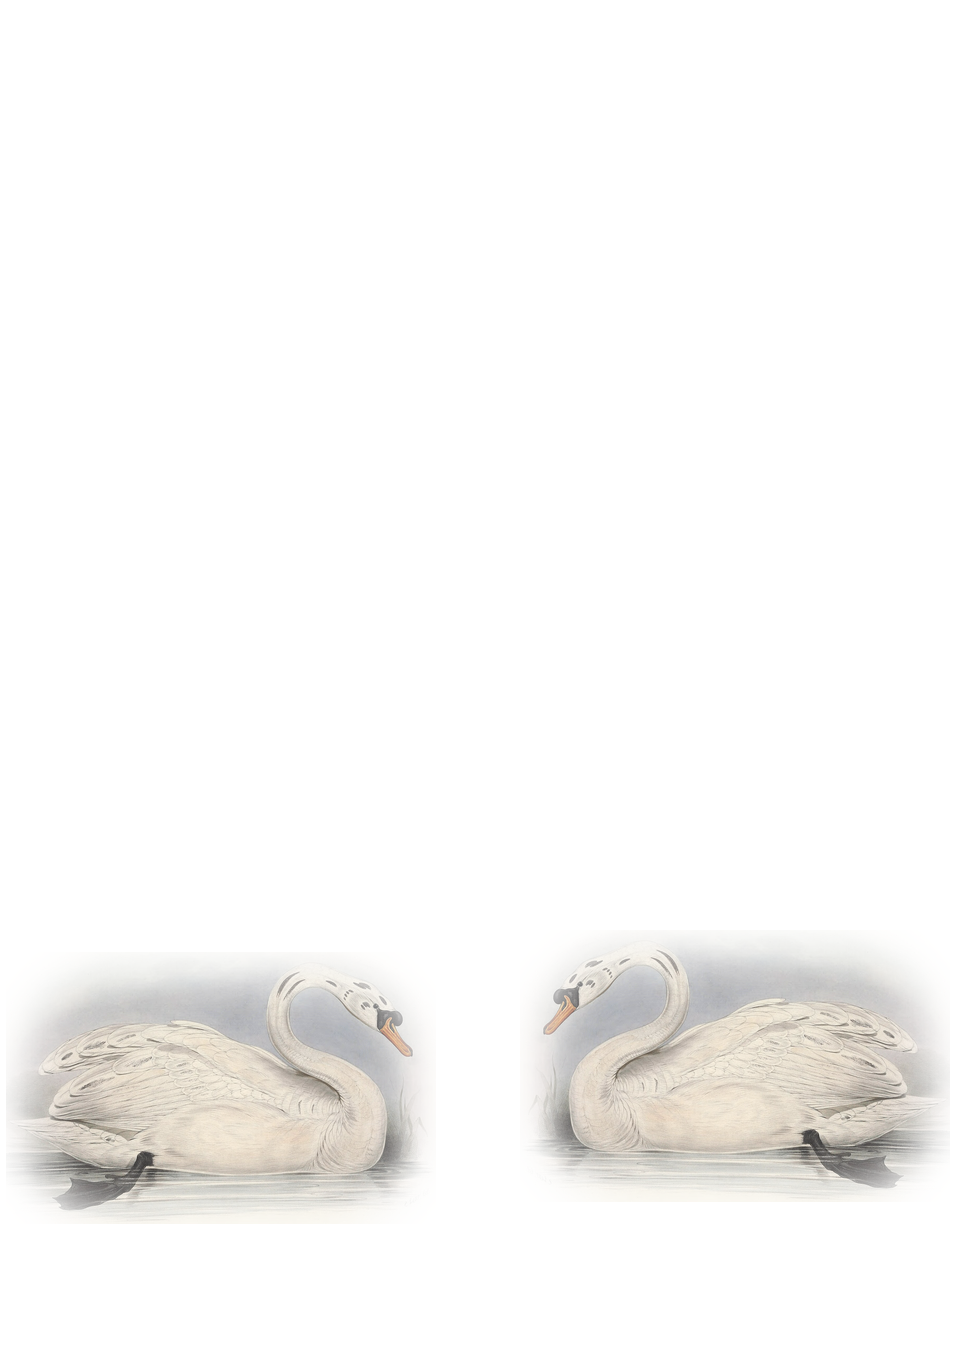
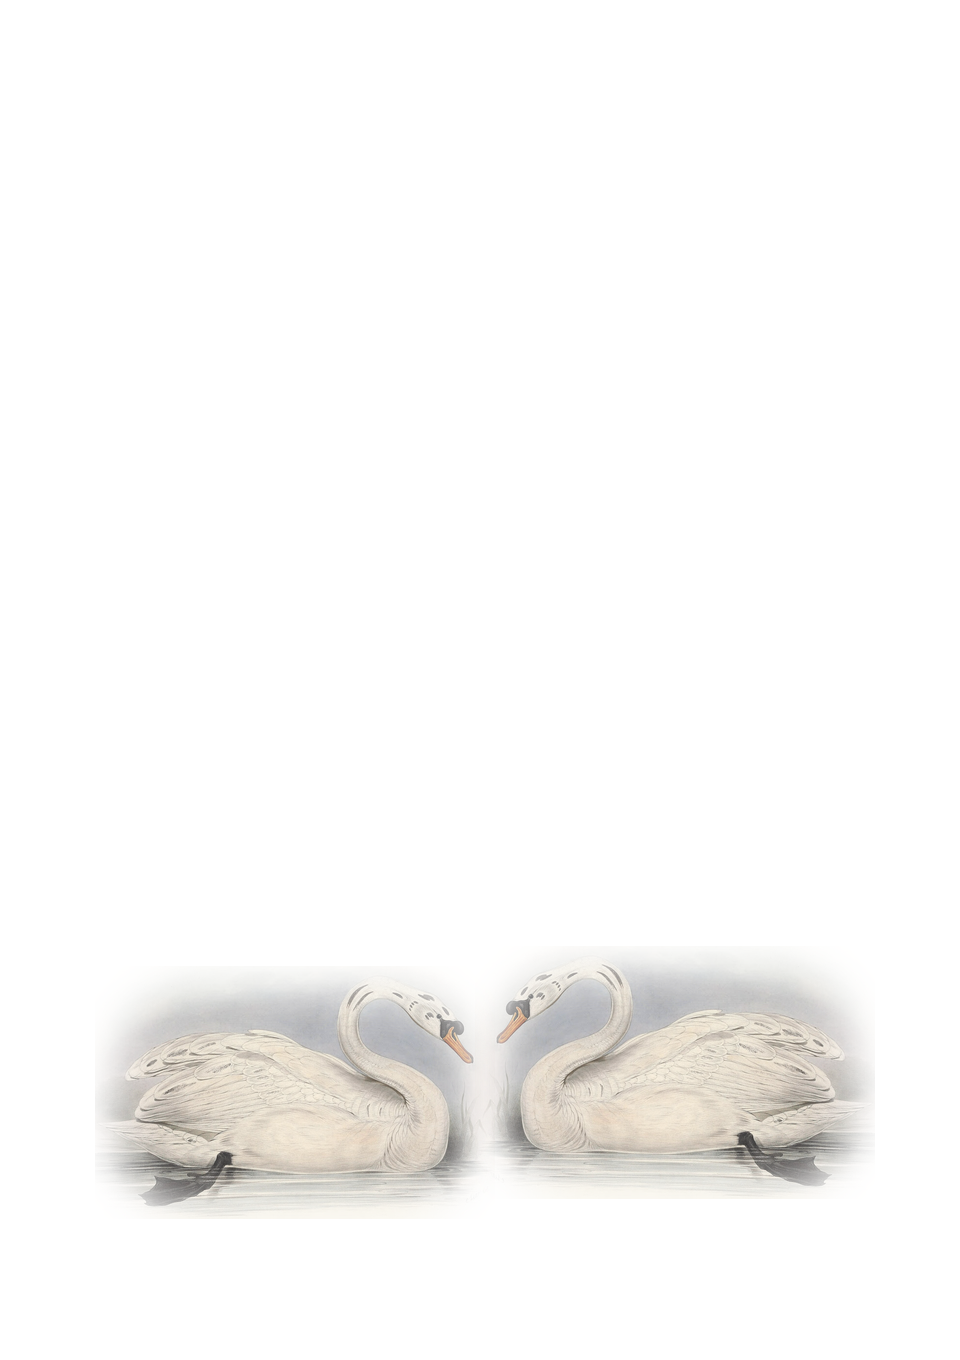
Perbaikan dari uji HP: pohon bersih, angsa ke tengah, teks kartu kontras
- Pita buram di kaki pohon dihapus (crop kanopi + fade pendek,
  tanpa blur besar).
- Angsa digeser ke tengah area yang terlihat di ponsel; bunga
  dikecilkan & didorong ke sudut bawah agar tak menutup angsa.
- Latar kartu acara diputihkan (brightness/desaturate) + overlay
  teks dipertebal (.92/.74, opacity lapisan .38) agar teks terbaca.
- Versi cache lapisan yang berubah dinaikkan.

Claude-Session: https://claude.ai/code/session_01LkaUxAjYkG9BUR8KnjGtn9

Changed region(s): [[0.0, 0.6794, 1.0, 0.8956]]

diff --git a/preview/index.html b/preview/index.html
@@ -12,7 +12,7 @@
   <link rel="preconnect" href="https://fonts.googleapis.com" />
   <link rel="preconnect" href="https://fonts.gstatic.com" crossorigin />
   <link href="https://fonts.googleapis.com/css2?family=Cormorant+Garamond:ital,wght@0,400;0,500;0,600;1,400;1,500&family=EB+Garamond:ital,wght@0,400;0,500;1,400&family=Great+Vibes&display=swap" rel="stylesheet" />
-  <link rel="stylesheet" href="css/style.css?v=fresco21" />
+  <link rel="stylesheet" href="css/style.css?v=fresco22" />
 </head>
 <body class="locked assemble">
 
@@ -301,10 +301,10 @@
         <img class="mm m-cloud" src="../assets/img/mural/clouds.png" alt="" />
         <img class="mm m-hill1" src="../assets/img/mural/mtn.png" alt="" />
         <img class="mm m-hill3" src="../assets/img/mural/meadow.png?v=2" alt="" />
-        <img class="mm m-tree-l" src="../assets/img/mural/tree-l.png" alt="" />
-        <img class="mm m-tree-r" src="../assets/img/mural/tree-r.png" alt="" />
-        <img class="mm m-deer" src="../assets/img/mural/swans.png" alt="" />
-        <img class="mm m-flora" src="../assets/img/mural/flora.png" alt="" />
+        <img class="mm m-tree-l" src="../assets/img/mural/tree-l.png?v=2" alt="" />
+        <img class="mm m-tree-r" src="../assets/img/mural/tree-r.png?v=2" alt="" />
+        <img class="mm m-deer" src="../assets/img/mural/swans.png?v=2" alt="" />
+        <img class="mm m-flora" src="../assets/img/mural/flora.png?v=2" alt="" />
         <svg class="mm m-bf" viewBox="0 0 480 680" preserveAspectRatio="xMidYMid slice">
           <use href="#butterfly" transform="translate(150 540) scale(.5) rotate(-10)"/>
           <use href="#butterfly" transform="translate(330 480) scale(.4) rotate(12)"/>
@@ -397,7 +397,7 @@
         <p class="section-intro">Dengan berkat Tuhan, kami dengan sukacita mengundang Anda untuk berbagi kebahagiaan pada hari pernikahan kami</p>
 
         <div class="event-card rv">
-          <img class="ev-art" src="../assets/img/mural/evbg.jpg?v=2" alt="" />
+          <img class="ev-art" src="../assets/img/mural/evbg.jpg?v=3" alt="" />
           <div class="ev-inner">
             <h3 id="akad-title" class="script ev-name"></h3>
             <div class="rule-dot"><span></span></div>
@@ -414,7 +414,7 @@
         </div>
 
         <div class="event-card rv">
-          <img class="ev-art" src="../assets/img/mural/evbg.jpg?v=2" alt="" />
+          <img class="ev-art" src="../assets/img/mural/evbg.jpg?v=3" alt="" />
           <div class="ev-inner">
             <h3 id="resepsi-title" class="script ev-name"></h3>
             <div class="rule-dot"><span></span></div>
@@ -528,7 +528,7 @@
   <!-- Toast -->
   <div id="toast" class="toast" role="status" aria-live="polite"></div>
 
-  <script src="js/config.js?v=fresco21"></script>
-  <script src="js/main.js?v=fresco21"></script>
+  <script src="js/config.js?v=fresco22"></script>
+  <script src="js/main.js?v=fresco22"></script>
 </body>
 </html>

diff --git a/preview/css/style.css b/preview/css/style.css
@@ -354,10 +354,10 @@ button { font: inherit; cursor: pointer; }
   margin-top: 1.8rem;
   box-shadow: 0 16px 34px -24px rgba(63, 78, 61, .5), inset 0 0 0 1px rgba(169, 143, 85, .35);
 }
-.ev-art { position: absolute; inset: 0; width: 100%; height: 100%; opacity: .5; object-fit: cover; }
+.ev-art { position: absolute; inset: 0; width: 100%; height: 100%; opacity: .38; object-fit: cover; }
 .event-card::before {
   content: ""; position: absolute; inset: 0;
-  background: linear-gradient(rgba(251, 248, 240, .82), rgba(251, 248, 240, .58));
+  background: linear-gradient(rgba(251, 248, 240, .92), rgba(251, 248, 240, .74));
 }
 .ev-inner { position: relative; padding: 2.2rem 1.4rem 2rem; }
 .ev-name { font-size: 2.4rem; line-height: 1; color: var(--ink); }
